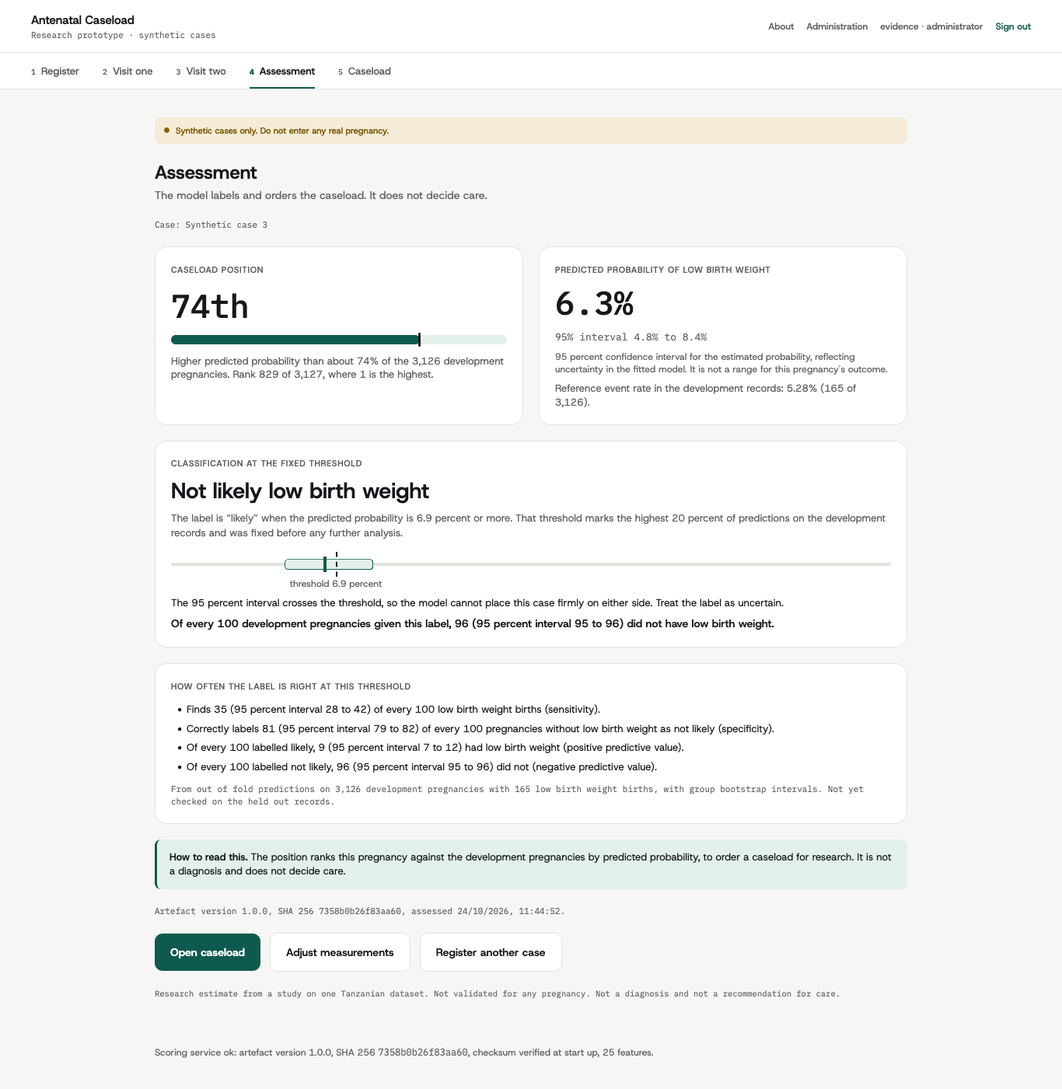
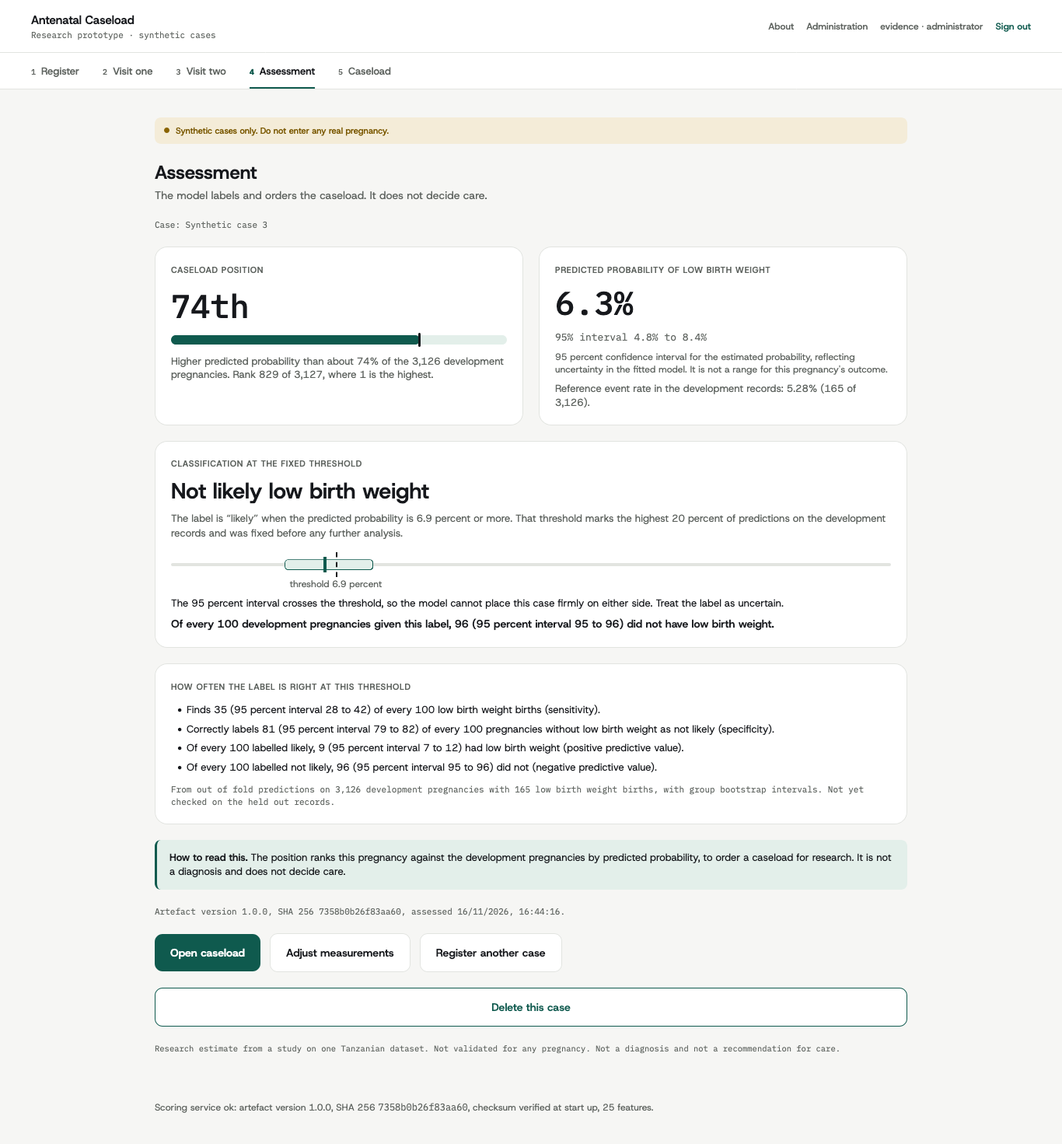
Document the ethics approval, consent, privacy and deletion, with evidence
The ethics note now records the ALU Research Ethics Committee approval
SEPT26-BSE-064 (2 November 2026, valid six months, with its conditions) in
section 2.2, keeps the dataset producers' missing statement in section 2.1, and
adds section 9 on consent, the privacy page and deletion with their file paths.
The README gains a "Privacy, consent and deletion" section.

scripts/render_designs.py now also captures the consent page, the privacy
page, the delete confirmation, a removal request, the administrator's removal
list and the stored consent row (06 to 11 in designs/web). The accessibility
audit covers the Privacy, Consent and Account pages, which score 100 at both
sizes like every other screen. docs/evidence/ethics_features.md lists the
commits, the tests and the screenshots, and explains the two places where the
policy follows the code rather than the brief. The test summary is refreshed:
376 tests, 371 passed, 5 PostgreSQL tests skipped without a test database.

fix

diff --git a/frontend/src/app/account/page.tsx b/frontend/src/app/account/page.tsx
@@ -107,7 +107,7 @@ function RemoveAccount() {
 
 export default function Page() {
   return (
-    <PlainScreen id="account" title="Account" lead="Change your password.">
+    <PlainScreen id="account" title="Account" lead="Change your password, or ask for your account to be removed.">
       <Suspense>
         <RequireSession>
           <PasswordForm />

diff --git a/scripts/render_designs.py b/scripts/render_designs.py
@@ -1,17 +1,24 @@
 """Regenerate the design images in designs/web/ from the live interface.
 
 Usage: ``python scripts/render_designs.py`` (needs ``make browsers`` once).
-The script starts its own server with a temporary database, signs in, walks the five
-screens in Chromium at 1366 by 768 with a synthetic case, and saves
-``01-register.png`` to ``05-caseload.png``. It stops with an error if any
-screen shows triage wording, so a design image can never carry it.
+The script starts its own server with a temporary database, signs in, agrees to the
+Terms of Use, walks the five screens in Chromium at 1366 by 768 with a synthetic case,
+and saves ``00-sign-in.png`` to ``05-caseload.png``. It then captures the consent page
+(06), the Privacy Policy and Terms of Use (07), the in page confirmation of a case
+deletion (08), a researcher's removal request (09), the administrator's list of removal
+requests (10), and the stored consent row of the user table (11), whose password
+appears only as its scrypt hash. It stops with an error if any screen shows triage
+wording, so a design image can never carry it.
 """
 
 from __future__ import annotations
 
+import html
+import json
 import os
 import re
 import socket
+import sqlite3
 import subprocess
 import sys
 import tempfile
@@ -22,7 +29,7 @@ from pathlib import Path
 from playwright.sync_api import Page, sync_playwright
 
 sys.path.insert(0, str(Path(__file__).resolve().parent))
-from evidence_account import create_account  # noqa: E402
+from evidence_account import PASSWORD, create_account, sign_in  # noqa: E402
 
 ROOT = Path(__file__).resolve().parents[1]
 OUT = ROOT / "designs" / "web"
@@ -77,6 +84,10 @@ def _walk(page: Page, username: str, password: str) -> list[Path]:
     shots = [_capture(page, "sign-in-screen", "00-sign-in")]
     page.fill("#password", password)
     page.click("#sign-in")
+    page.locator("#terms-of-use", has_text="synthetic").wait_for()
+    page.check("#consent-box")
+    shots.append(_capture(page, "consent", "06-consent"))
+    page.click("#agree")
     page.wait_for_selector("#register:not([hidden])")
     _fill(page, "reg", REGISTER)
     shots.append(_capture(page, "register", "01-register"))
@@ -92,10 +103,88 @@ def _walk(page: Page, username: str, password: str) -> list[Path]:
     page.wait_for_selector("#assessment:not([hidden])")
     page.locator("#rank", has_text=" of ").wait_for()
     shots.append(_capture(page, "assessment", "04-assessment"))
+    page.click(".delete-case")
+    page.locator(".confirm-delete", has_text="cannot be undone").wait_for()
+    page.locator(".confirm-delete").scroll_into_view_if_needed()
+    shots.append(_capture(page, "assessment", "08-delete-case"))
+    page.click(".confirm-delete .keep")
     page.click("#to-caseload")
     page.wait_for_selector("#caseload-body tr")
     shots.append(_capture(page, "caseload", "05-caseload"))
+    page.goto(page.url.split("/caseload")[0] + "/privacy/")
+    page.locator("#policy-version", has_text="Version").wait_for()
+    shots.append(_capture(page, "privacy", "07-privacy"))
     return shots
+
+
+def _call(base: str, token: str, csrf: str, path: str, body: dict | None = None) -> dict:
+    headers = {"Cookie": f"antenatal_session={token}", "X-CSRF-Token": csrf}
+    headers["Content-Type"] = "application/json"
+    data = json.dumps(body if body is not None else {}).encode()
+    request = urllib.request.Request(f"{base}{path}", data=data, method="POST", headers=headers)
+    with urllib.request.urlopen(request, timeout=30) as response:
+        return json.loads(response.read() or b"{}")
+
+
+def _researcher(base: str, admin) -> tuple[str, str]:
+    """A researcher made by the administrator, with a chosen password and the terms accepted."""
+    made = _call(
+        base,
+        admin.token,
+        admin.csrf,
+        "/api/admin/users",
+        {"username": "rehema", "role": "researcher"},
+    )
+    token, csrf = sign_in(base, "rehema", made["password"])
+    _call(base, token, csrf, "/api/auth/password",
+          {"current_password": made["password"], "new_password": PASSWORD})  # fmt: skip
+    version = json.loads(urllib.request.urlopen(f"{base}/api/policy", timeout=30).read())["version"]
+    _call(base, token, csrf, "/api/auth/consent", {"version": version})
+    return "rehema", PASSWORD
+
+
+def _removal(browser, url: str, admin_page: Page, admin) -> list[Path]:
+    username, password = _researcher(url, admin)
+    page = browser.new_page(viewport={"width": 1366, "height": 768})
+    page.goto(f"{url}/sign-in/")
+    page.fill("#username", username)
+    page.fill("#password", password)
+    page.click("#sign-in")
+    page.wait_for_selector("#register:not([hidden])")
+    page.goto(f"{url}/account/")
+    page.click("#request-removal")
+    page.wait_for_selector("#removal-pending")
+    shots = [_capture(page, "account", "09-account-removal")]
+    admin_page.goto(f"{url}/admin/")
+    admin_page.wait_for_selector("#removal-requests .remove-account")
+    shots.append(_capture(admin_page, "administration", "10-admin-removal"))
+    return shots
+
+
+def _consent_row(browser, database: Path, username: str) -> Path:
+    """The stored user row as a query result: version and time of consent, hash only."""
+    query = (
+        "SELECT id, username, role, password_hash, terms_version, terms_accepted_at "
+        f"FROM users WHERE username = '{username}';"
+    )
+    with sqlite3.connect(database) as connection:
+        cursor = connection.execute(query)
+        names = [d[0] for d in cursor.description]
+        row = cursor.fetchone()
+    lines = "".join(
+        f"<tr><th>{html.escape(n)}</th><td>{html.escape(str(v))}</td></tr>"
+        for n, v in zip(names, row, strict=True)
+    )
+    page = browser.new_page(viewport={"width": 1366, "height": 400})
+    page.set_content(
+        "<body style='font:14px ui-monospace,Menlo,monospace;padding:24px;background:#fff'>"
+        f"<p>$ sqlite3 app.sqlite3</p><p>sqlite&gt; {html.escape(query)}</p>"
+        "<table style='border-collapse:collapse' cellpadding='6' border='1'>"
+        f"{lines}</table></body>"
+    )
+    path = OUT / "11-consent-row.png"
+    page.screenshot(path=str(path), full_page=True)
+    return path
 
 
 def main() -> int:
@@ -106,12 +195,16 @@ def main() -> int:
         database = Path(tmp) / "designs.sqlite3"
         server, url = _server(database)
         try:
-            account = create_account(f"sqlite:///{database}", url, "designer")
+            account = create_account(f"sqlite:///{database}", url, "designer", consent=False)
             with sync_playwright() as session:
                 browser = session.chromium.launch()
                 page = browser.new_page(viewport={"width": 1366, "height": 768})
                 page.goto(f"{url}/register/")
                 shots = _walk(page, account.username, account.password)
+                admin = sign_in(url, account.username, account.password)
+                admin = type("Admin", (), {"token": admin[0], "csrf": admin[1]})
+                shots += _removal(browser, url, page, admin)
+                shots.append(_consent_row(browser, database, account.username))
                 browser.close()
         finally:
             server.terminate()

diff --git a/scripts/accessibility_audit.py b/scripts/accessibility_audit.py
@@ -1,4 +1,4 @@
-"""Measure the accessibility of the five screens with Lighthouse.
+"""Measure the accessibility of every screen of the interface with Lighthouse.
 
 Usage: ``python scripts/accessibility_audit.py``. The script starts its own
 server on a free local port with a temporary database, records one synthetic
@@ -36,6 +36,9 @@ LIGHTHOUSE = "lighthouse@12.8.2"
 SCREENS = (
     ("Sign in", "/sign-in/"),
     ("About", "/about/"),
+    ("Privacy", "/privacy/"),
+    ("Consent", "/consent/"),
+    ("Account", "/account/"),
     ("Administration", "/admin/"),
     ("Register", "/register/"),
     ("Visit one", "/visit-one/"),

diff --git a/tests/unit/test_accessibility_evidence.py b/tests/unit/test_accessibility_evidence.py
@@ -5,6 +5,9 @@ import json
 SCREENS = {
     "Sign in",
     "About",
+    "Privacy",
+    "Consent",
+    "Account",
     "Administration",
     "Register",
     "Visit one",

diff --git a/docs/evidence/ethics_features.md b/docs/evidence/ethics_features.md
@@ -1,0 +1,56 @@
+# Ethics features: consent, privacy policy and deletion
+
+Recorded on 16 November 2026. These three features answer the ethics summative: a consent step that the user accepts and the database records; a Privacy Policy and Terms of Use page inside the application; and a way for a user to delete their own data. The study's approval from the African Leadership University Research Ethics Committee (code SEPT26-BSE-064, 2 November 2026, valid six months) is recorded in [`docs/ethics_and_ai.md`](../ethics_and_ai.md), section 2.2, and section 9 of that note describes the three features.
+
+Nothing in the research side changed: no file under `data/`, `partitions/`, `outputs/`, `webapp/model/`, `week36_model/`, `configs/` or `src/antenatal/`. The model artefact, the data checksum and the sealed partition are untouched, and the prediction endpoint returns the same scores (`tests/integration/test_api.py` passes unchanged).
+
+## What was built
+
+| Feature | Commit | What it does |
+| --- | --- | --- |
+| Restored documents | 6385043 | Brings back `docs/ethics_and_ai.md`, `docs/decisions_log.md` and `docs/tripod_ai_checklist.md`, removed in 588d5e9 and cited by the report |
+| Consent at first sign in | 8bb882b | "Before you continue" page; no case work or prediction until the current Terms of Use are accepted; version and time stored on the user row with a `consent_accepted` audit event |
+| Privacy Policy and Terms of Use | d19e833 | `/privacy`, open without sign in, version 2026-11-16, ten sections served from `webapp/app/core/policy.py` |
+| Deletion | 190e05b | The owner deletes a case at once from the assessment screen or the caseload; a user requests removal of their account and an administrator completes it |
+
+## Where the wording differs from the brief, and why
+
+The brief asked for two statements that the code does not support. The policy follows the code, because the instruction also required every statement to be true and the system's behaviour not to change.
+
+* **Administrator access to cases.** The brief's policy said an administrator cannot see other users' cases. The application lets an administrator open any case (`webapp/app/services/case_service.py`, and `tests/integration/test_auth.py::test_researchers_see_only_their_own_cases` asserts it). The policy says so: "An administrator manages accounts, reads the audit trail and can also open any case, to support researchers."
+* **Network addresses.** The web server's request log (the uvicorn default), kept by the host, records network addresses. The policy says the database never stores them, and that the request log does.
+* **What removal keeps.** The audit trail keeps every earlier record of the removed user, not only the record of the removal, and the page says so.
+
+Deleting a case is owner only, including for administrators, as the brief asked.
+
+## Tests
+
+| Test file | What it proves |
+| --- | --- |
+| `tests/integration/test_consent.py` (7 tests) | Case work, caseload and prediction refused with the exact message until consent; consent stores version, time and audit event; another version refused with 409 and nothing stored; a new policy version asks again; CSRF token required; sign in required; an older database gains the new columns without losing rows |
+| `tests/unit/test_policy.py` (4 tests) | Version is a date; ten sections in order and non empty, at most 600 words; no dash used as punctuation; the facts it names match the code (seven days, 64 KB, eight hours, five failures, scrypt, MIT, CC BY 4.0, SEPT26-BSE-064); the API serves exactly these sentences |
+| `tests/integration/test_deletion.py` (6 tests) | The owner deletes a case with its visits and assessment, with a `case_deleted` event; another researcher, an administrator or an unknown id get the same 404; CSRF required; a removal request is completed by an administrator, deleting cases, sessions and user, with `account_removed`, after which the old session gets 401; only administrators remove; self removal and the last administrator are refused with 409 |
+| `tests/integration/test_retention.py` (one added test) | The seven day purge leaves consent and removal dates untouched |
+| `tests/e2e/test_ethics_features.py` (3 tests) | In Chromium: the consent page appears once, with the button disabled until the box is ticked; `/privacy` opens without sign in with the version and all ten headings, and is linked from the sign in, About and account pages; a case is deleted from the assessment screen after Keep and then Delete |
+| `tests/unit/test_accessibility_evidence.py` | The accessibility evidence now also covers the Privacy, Consent and Account pages; every page scored 100 at phone and desktop sizes (`docs/evidence/accessibility.md`) |
+
+The final line of the full run (`pytest`, unit, integration and browser tests):
+
+```
+371 passed, 5 skipped, 2 warnings in 248.20s (0:04:08)
+```
+
+The 5 skipped tests are the PostgreSQL tests in `tests/postgres`, which run only when `ANTENATAL_TEST_POSTGRES_URL` points at a database that may be wiped. Before this work the unit and integration suites held 344 tests and the browser suite 6; they now hold 362 and 9.
+
+## Screenshots
+
+Taken by `scripts/render_designs.py` from the running interface in Chromium at 1366 pixels wide, on a temporary database.
+
+| File | Shows |
+| --- | --- |
+| [`designs/web/06-consent.png`](../../designs/web/06-consent.png) | Before you continue: Terms of Use, the ticked square checkbox and "I agree" |
+| [`designs/web/07-privacy.png`](../../designs/web/07-privacy.png) | The Privacy Policy and Terms of Use with its version |
+| [`designs/web/08-delete-case.png`](../../designs/web/08-delete-case.png) | The in page confirmation before a case is deleted |
+| [`designs/web/09-account-removal.png`](../../designs/web/09-account-removal.png) | A researcher's account page after requesting removal |
+| [`designs/web/10-admin-removal.png`](../../designs/web/10-admin-removal.png) | The administrator's list of removal requests, with `consent accepted` and `deletion requested` in the audit trail |
+| [`designs/web/11-consent-row.png`](../../designs/web/11-consent-row.png) | The stored user row: `terms_version` and `terms_accepted_at` filled, the password only as its scrypt hash |

diff --git a/docs/ethics_and_ai.md b/docs/ethics_and_ai.md
@@ -36,10 +36,16 @@ Sections marked **AUTHOR TO WRITE** contain statements that only the author can 
 
 ### 2.2 University determination
 
-> **AUTHOR TO WRITE.** The proposal states that the study follows the African
-> Leadership University's decision on the ethics of secondary data and claims
-> no exemption. Record that decision here when it is received: the deciding
-> body, the date, any reference number, and its conditions.
+The study holds ethical approval from the **African Leadership University Research Ethics Committee**:
+
+| Item | Value |
+| --- | --- |
+| Approval code | SEPT26-BSE-064 |
+| Date of approval | 2 November 2026 |
+| Validity | Six months from the date of approval |
+| Conditions | Any change in procedure must be reported to the committee within 48 hours; a significant change of topic or method needs a new application |
+
+The approval covers the secondary analysis of the released dataset and the research prototype described here. Section 2.1 still applies: the dataset producers have not published their own approval or consent statement, and reuse of their data rests on the licence and on the absence of direct identifiers.
 
 ### 2.3 Gaps found
 
@@ -139,4 +145,27 @@ Write each answer under its prompt, then move it into `docs/Technical-Report.md`
 
 ## 8. Walkthrough with health workers
 
-A walkthrough of the prototype with two or three health workers or clinicians, using synthetic cases only, is a **proposed activity** (proposal Sections 1.5 and 3.6). It has **not taken place**. It is pending the African Leadership University's determination, and it will not start before that determination is received and recorded in section 2.2. It is not on the critical path of the study and is not a clinical evaluation.
+A walkthrough of the prototype with two or three health workers or clinicians, using synthetic cases only, is a **proposed activity** (proposal Sections 1.5 and 3.6). It has **not taken place**. The African Leadership University Research Ethics Committee approval is now recorded in section 2.2; any walkthrough would follow its conditions. It is not on the critical path of the study and is not a clinical evaluation.
+
+## 9. Consent, privacy and user rights in the application
+
+Three features give users of the prototype the same respect the study gives the data. Each is enforced by the server and proven by tests; the screenshots are listed in [`docs/evidence/ethics_features.md`](evidence/ethics_features.md).
+
+### 9.1 Consent at first sign in
+
+A user who has not agreed to the current Terms of Use is taken, after sign in and after the forced password change, to a page titled "Before you continue". It shows the Terms of Use, one checkbox with the sentence "I will enter synthetic cases only, never a real pregnancy, and I understand that my actions in this application are logged", and an "I agree" button that stays disabled until the box is ticked.
+
+* Until the user agrees, every case route and the prediction route answer 403 with "Accept the Terms of Use before using the application" (`webapp/app/api/deps.py`, `consenting_user`), and the interface sends the user back to the consent page (`frontend/src/lib/session.tsx`, `frontend/src/app/consent/page.tsx`).
+* Agreement is stored on the user row as `terms_version` and `terms_accepted_at` (`webapp/app/db/models.py`), written by `POST /api/auth/consent`, with a `consent_accepted` audit event. A version other than the current one is refused, and a new policy version asks every user to agree again.
+* Tests: `tests/integration/test_consent.py`, and the first test in `tests/e2e/test_ethics_features.py`.
+
+### 9.2 Privacy Policy and Terms of Use
+
+The page `/privacy` needs no sign in and is linked from the sign in, About, account and consent pages (`frontend/src/app/privacy/page.tsx`). Its ten sections, with version `POLICY_VERSION`, are written once in `webapp/app/core/policy.py` and served by `GET /api/policy`. Every statement follows the code. In particular, it says that an administrator can open any case to support researchers, and that the web server's request log, kept by the host, holds network addresses, because both are true. Tests: `tests/unit/test_policy.py` and the privacy test in `tests/e2e/test_ethics_features.py`.
+
+### 9.3 Deleting data
+
+* **A case, at once.** The owner of a case can delete it from the assessment screen or the caseload, after a confirmation shown in the page. `DELETE /api/cases/{id}` removes the case with its visits and assessments and logs `case_deleted`. Anyone else, including an administrator, receives the same "not found" answer as for a case that does not exist (`webapp/app/services/removal.py`).
+* **An account, on request.** The account page offers "Request removal", which records `deletion_requested_at` and logs `deletion_requested`. An administrator sees pending requests on the administration page and completes them; removal deletes the user's cases, sessions and account in one transaction and logs `account_removed`. An administrator cannot remove their own account or the last active administrator.
+* **Automatically.** Synthetic cases are deleted seven days after they are created, as before (`webapp/app/services/retention.py`).
+* Tests: `tests/integration/test_deletion.py`, the added test in `tests/integration/test_retention.py`, and the deletion test in `tests/e2e/test_ethics_features.py`.

diff --git a/README.md b/README.md
@@ -25,12 +25,13 @@ Kelvin Rwihimba, BSc Software Engineering, African Leadership University. Superv
 5. [Results](#results)
 6. [How the held out records were protected](#how-the-held-out-records-were-protected)
 7. [The prototype](#the-prototype)
-8. [Getting started](#getting-started)
-9. [Testing and evidence](#testing-and-evidence)
-10. [Documentation](#documentation)
-11. [Repository structure](#repository-structure)
-12. [Limitations](#limitations)
-13. [Licence and data](#licence-and-data)
+8. [Privacy, consent and deletion](#privacy-consent-and-deletion)
+9. [Getting started](#getting-started)
+10. [Testing and evidence](#testing-and-evidence)
+11. [Documentation](#documentation)
+12. [Repository structure](#repository-structure)
+13. [Limitations](#limitations)
+14. [Licence and data](#licence-and-data)
 
 ## The question and the answer
 
@@ -166,6 +167,19 @@ The interface takes one synthetic pregnancy through registration and two visits,
 | ![Register](designs/web/01-register.png) | ![Assessment](designs/web/04-assessment.png) | ![Caseload](designs/web/05-caseload.png) |
 
 The images are screenshots of the running interface drawn by `scripts/render_designs.py`; [`designs/README.md`](designs/README.md) lists every screen.
+
+## Privacy, consent and deletion
+
+The study holds ethical approval from the African Leadership University Research Ethics Committee, code SEPT26-BSE-064, dated 2 November 2026 and valid for six months ([`docs/ethics_and_ai.md`](docs/ethics_and_ai.md), section 2.2).
+
+| Feature | What the user sees | Where |
+| --- | --- | --- |
+| Consent at first sign in | "Before you continue": the Terms of Use, one checkbox and "I agree". No case work is possible before agreeing; the version and time are stored on the user row with an audit event | `frontend/src/app/consent/`, `POST /api/auth/consent` |
+| Privacy Policy and Terms of Use | `/privacy`, open without sign in, ten sections in plain English, version 2026-11-16 | `webapp/app/core/policy.py`, `GET /api/policy` |
+| Deleting a case | "Delete this case" on the assessment screen and every caseload row, with a confirmation in the page | `DELETE /api/cases/{id}` |
+| Removing an account | "Request removal" on the account page; an administrator completes it from the administration page | `POST /api/auth/deletion-request`, `POST /api/admin/users/{id}/remove` |
+
+Questions about privacy go to the issues page of this repository. The screenshots and the tests behind each feature are listed in [`docs/evidence/ethics_features.md`](docs/evidence/ethics_features.md).
 
 ## Getting started
 

diff --git a/designs/README.md b/designs/README.md
@@ -1,6 +1,6 @@
 # Designs
 
-The six images in `web/` are screenshots of the running interface, not drawings. `scripts/render_designs.py` starts the server with a temporary database, creates a temporary account, signs in, enters one synthetic pregnancy in Chromium at 1366 by 768 and saves one image per screen. It stops with an error if a screen shows triage wording. To redraw them after an interface change, run `make browsers` once and then `.venv/bin/python scripts/render_designs.py`.
+The twelve images in `web/` are screenshots of the running interface, not drawings. `scripts/render_designs.py` starts the server with a temporary database, creates a temporary account, signs in, agrees to the Terms of Use, enters one synthetic pregnancy in Chromium at 1366 by 768 and saves one image per screen, then captures the consent, privacy and deletion screens and the stored consent row. It stops with an error if a screen shows triage wording. To redraw them after an interface change, run `make browsers` once and then `.venv/bin/python scripts/render_designs.py`.
 
 | File | Screen |
 | --- | --- |
@@ -10,6 +10,12 @@ The six images in `web/` are screenshots of the running interface, not drawings.
 | `web/03-visit-two.png` | Visit two measurements |
 | `web/04-assessment.png` | Rank position and predicted probability with its interval |
 | `web/05-caseload.png` | Caseload ordered by predicted probability |
+| `web/06-consent.png` | Before you continue: the Terms of Use, the checkbox and "I agree" |
+| `web/07-privacy.png` | Privacy Policy and Terms of Use, open without sign in |
+| `web/08-delete-case.png` | Deleting a case from the assessment screen, with the confirmation in the page |
+| `web/09-account-removal.png` | A researcher's account page after requesting removal |
+| `web/10-admin-removal.png` | The administrator's list of removal requests, and the audit trail |
+| `web/11-consent-row.png` | The stored user row: consent version and time, password only as its scrypt hash |
 
 The earlier Figma screens, which included sign up and sign in screens and triage wording, were removed. Sign in returns with the authentication work of decision D1, and the assessment now shows a label at a fixed threshold (decision D6); no triage wording is shown.
 

diff --git a/docs/evidence/accessibility.md b/docs/evidence/accessibility.md
@@ -1,6 +1,6 @@
 # Accessibility evidence
 
-Measured by `scripts/accessibility_audit.py` on 2026-10-24T11:42:57+00:00 with Lighthouse
+Measured by `scripts/accessibility_audit.py` on 2026-11-16T16:38:42+00:00 with Lighthouse
 12.8.2 (accessibility category only, which runs the axe-core rules) in
 Mozilla/5.0 (Macintosh; Intel Mac OS X 10_15_7) AppleWebKit/537.36 (KHTML, like Gecko) HeadlessChrome/156.0.0.0 Safari/537.36 on macOS-15.5-arm64-arm-64bit. The script started its own server with a temporary
 database, recorded one synthetic case with both visits and an assessment through the API,
@@ -14,6 +14,9 @@ mobile emulation and the desktop run its desktop preset. The raw results are in
 | --- | --- | --- |
 | Sign in | 100 | 100 |
 | About | 100 | 100 |
+| Privacy | 100 | 100 |
+| Consent | 100 | 100 |
+| Account | 100 | 100 |
 | Administration | 100 | 100 |
 | Register | 100 | 100 |
 | Visit one | 100 | 100 |

diff --git a/docs/evidence/compatibility.md b/docs/evidence/compatibility.md
@@ -1,6 +1,6 @@
 # Compatibility evidence
 
-Recorded by `pytest tests/e2e` on 2026-10-24T11:50:18+00:00 on macOS-15.5-arm64-arm-64bit with Playwright. Each cell is the full five screen flow (register, visit one, visit two, assessment, caseload) at that window size. Screenshots are in `compatibility/`, one per screen per browser per size.
+Recorded by `pytest tests/e2e` on 2026-11-16T16:49:49+00:00 on macOS-15.5-arm64-arm-64bit with Playwright. Each cell is the full five screen flow (register, visit one, visit two, assessment, caseload) at that window size. Screenshots are in `compatibility/`, one per screen per browser per size.
 
 | Browser | Version | 390x844 | 1366x768 |
 | --- | --- | --- | --- |
